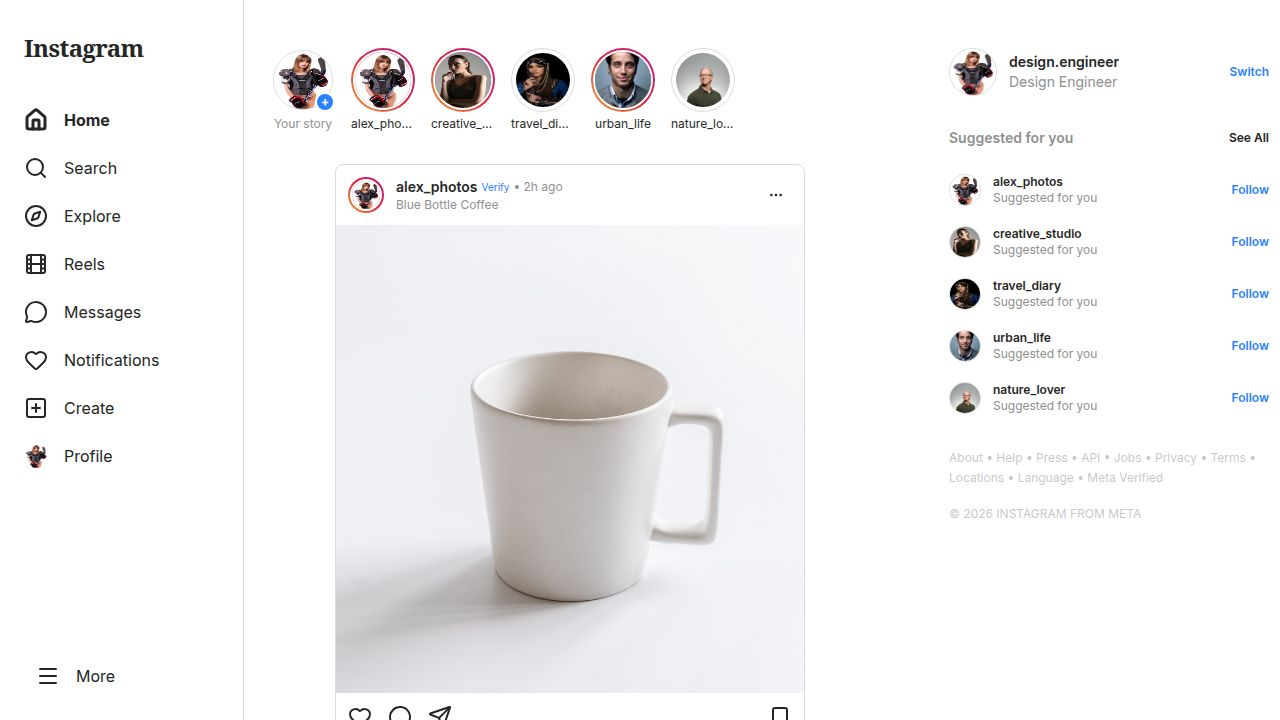
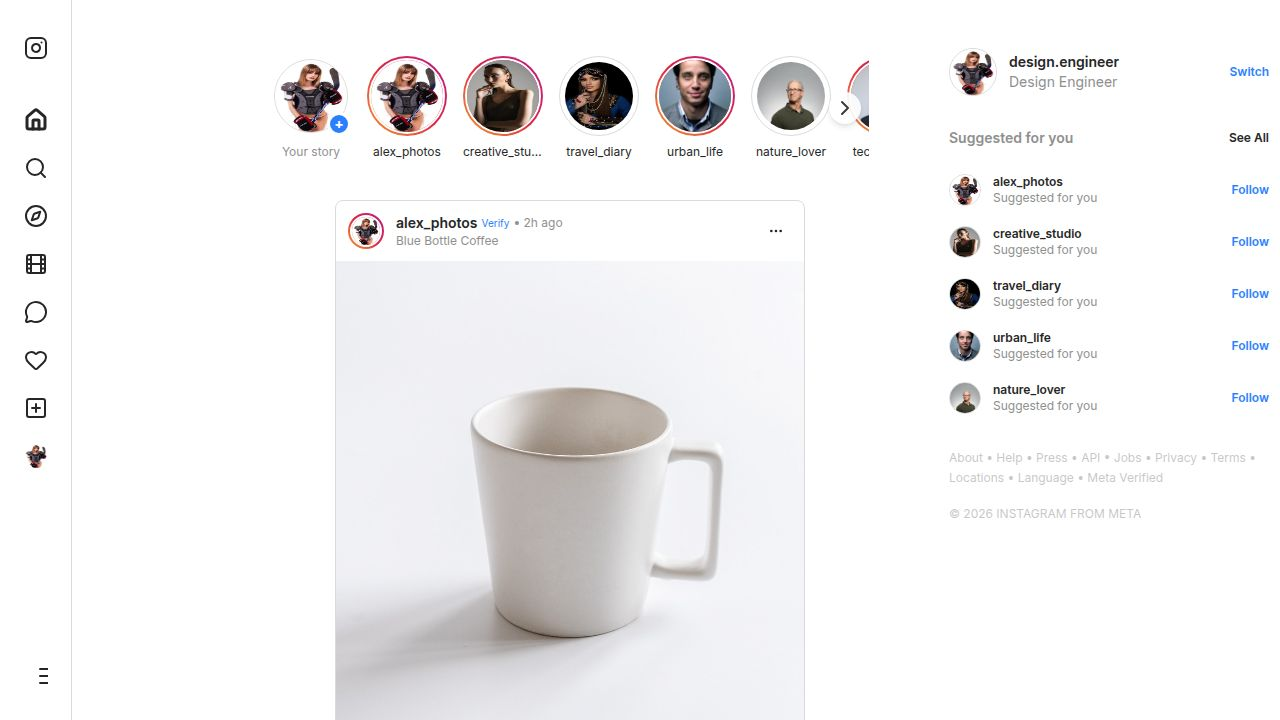
Increase profile picture sizes and adjust layout for stories and comment modal
Update the comment modal to be 60vw x 90vh, increase story profile picture sizes and spacing, and remove sidebar drop shadow.

Replit-Commit-Author: Agent
Replit-Commit-Session-Id: 7474228d-dd8b-4e1f-a194-4373e2afbe52
Replit-Commit-Checkpoint-Type: full_checkpoint
Replit-Commit-Event-Id: f93545ca-f355-4b1f-a81f-ffb562fa69d2
Replit-Commit-Screenshot-Url: https://storage.googleapis.com/screenshot-production-us-central1/aac1f84c-6fe8-432c-850f-5f38e96e74f6/7474228d-dd8b-4e1f-a194-4373e2afbe52/QNEeKjS
Replit-Helium-Checkpoint-Created: true

diff --git a/client/src/components/feed/Stories.tsx b/client/src/components/feed/Stories.tsx
@@ -26,7 +26,7 @@ export function Stories() {
   };
 
   return (
-    <div className="relative w-full md:max-w-[630px] mx-auto py-4">
+    <div className="relative w-full md:max-w-[630px] mx-auto py-6">
       
       {/* Left Arrow */}
       {canScrollLeft && (
@@ -34,7 +34,7 @@ export function Stories() {
           onClick={() => scroll('left')}
           className="absolute left-2 top-1/2 -translate-y-1/2 z-10 bg-white dark:bg-zinc-800 rounded-full p-1 shadow-md opacity-90 hover:opacity-100 hidden md:flex"
         >
-          <ChevronLeft className="h-5 w-5" />
+          <ChevronLeft className="h-6 w-6" />
         </button>
       )}
 
@@ -42,32 +42,32 @@ export function Stories() {
       <div 
         ref={scrollRef}
         onScroll={checkScroll}
-        className="overflow-x-auto no-scrollbar touch-pan-x flex gap-4 px-4 md:px-0 scroll-smooth"
+        className="overflow-x-auto no-scrollbar touch-pan-x flex gap-4 px-4 md:px-0 scroll-smooth items-center"
       >
         {/* Current User Story Add */}
-        <div className="flex flex-col items-center gap-1 min-w-[64px] cursor-pointer group">
-          <div className="w-16 h-16 rounded-full p-[2px] relative">
+        <div className="flex flex-col items-center gap-1 min-w-[80px] cursor-pointer group">
+          <div className="w-20 h-20 rounded-full p-[3px] relative">
              <Avatar className="w-full h-full border border-border">
                 <AvatarImage src="/images/avatar_1.jpg" />
                 <AvatarFallback>ME</AvatarFallback>
              </Avatar>
-             <div className="absolute bottom-0 right-0 bg-blue-500 rounded-full w-5 h-5 flex items-center justify-center border-2 border-background text-white text-xs font-bold">+</div>
+             <div className="absolute bottom-0 right-0 bg-blue-500 rounded-full w-6 h-6 flex items-center justify-center border-[3px] border-background text-white text-sm font-bold">+</div>
           </div>
-          <span className="text-xs truncate w-16 text-center text-muted-foreground">Your story</span>
+          <span className="text-xs truncate w-20 text-center text-muted-foreground mt-1">Your story</span>
         </div>
 
         {STORIES.map((story) => (
-          <div key={story.id} className="flex flex-col items-center gap-1 min-w-[64px] cursor-pointer group">
+          <div key={story.id} className="flex flex-col items-center gap-1 min-w-[80px] cursor-pointer group">
             <div className={cn(
-              "w-16 h-16 rounded-full p-[2px] transition-transform group-hover:scale-105",
+              "w-20 h-20 rounded-full p-[3px] transition-transform group-hover:scale-105",
               story.hasUnseen ? "story-ring" : "border border-border"
             )}>
-              <Avatar className="w-full h-full story-ring-inner border-2 border-background">
+              <Avatar className="w-full h-full story-ring-inner border-[3px] border-background">
                 <AvatarImage src={story.user.avatar} />
                 <AvatarFallback>{story.user.username[0]}</AvatarFallback>
               </Avatar>
             </div>
-            <span className="text-xs truncate w-16 text-center">{story.user.username}</span>
+            <span className="text-xs truncate w-20 text-center mt-1">{story.user.username}</span>
           </div>
         ))}
       </div>
@@ -78,7 +78,7 @@ export function Stories() {
           onClick={() => scroll('right')}
           className="absolute right-2 top-1/2 -translate-y-1/2 z-10 bg-white dark:bg-zinc-800 rounded-full p-1 shadow-md opacity-90 hover:opacity-100 hidden md:flex"
         >
-          <ChevronRight className="h-5 w-5" />
+          <ChevronRight className="h-6 w-6" />
         </button>
       )}
     </div>

diff --git a/client/src/components/layout/Sidebar.tsx b/client/src/components/layout/Sidebar.tsx
@@ -39,7 +39,7 @@ export function Sidebar() {
   ];
 
   return (
-    <div className="hidden md:flex flex-col h-full w-[72px] hover:w-[244px] border-r border-sidebar-border bg-sidebar text-sidebar-foreground fixed left-0 top-0 p-3 pt-8 pb-5 z-50 transition-all duration-300 ease-in-out group/sidebar overflow-hidden shadow-lg hover:shadow-xl">
+    <div className="hidden md:flex flex-col h-full w-[72px] hover:w-[244px] border-r border-sidebar-border bg-sidebar text-sidebar-foreground fixed left-0 top-0 p-3 pt-8 pb-5 z-50 transition-all duration-300 ease-in-out group/sidebar overflow-hidden">
       <div className="px-3 mb-8 h-8 flex items-center">
         {/* Full Logo - visible on hover */}
         <div className="hidden group-hover/sidebar:block w-full transition-opacity duration-300 animate-in fade-in zoom-in-95">

diff --git a/client/src/components/feed/PostModal.tsx b/client/src/components/feed/PostModal.tsx
@@ -24,7 +24,7 @@ export function PostModal({ post, children, isLiked, isSaved, onLike, onSave, li
       <DialogTrigger asChild>
         {children}
       </DialogTrigger>
-      <DialogContent className="max-w-[1100px] h-[90vh] md:h-[calc(100vh-40px)] p-0 gap-0 overflow-hidden flex flex-col md:flex-row border-none bg-background rounded-r-lg">
+      <DialogContent className="w-[60vw] h-[90vh] max-w-none p-0 gap-0 overflow-hidden flex flex-col md:flex-row border-none bg-background rounded-r-lg">
         <VisuallyHidden.Root>
             <DialogTitle>Post by {post.user.username}</DialogTitle>
             <DialogDescription>{post.caption}</DialogDescription>
